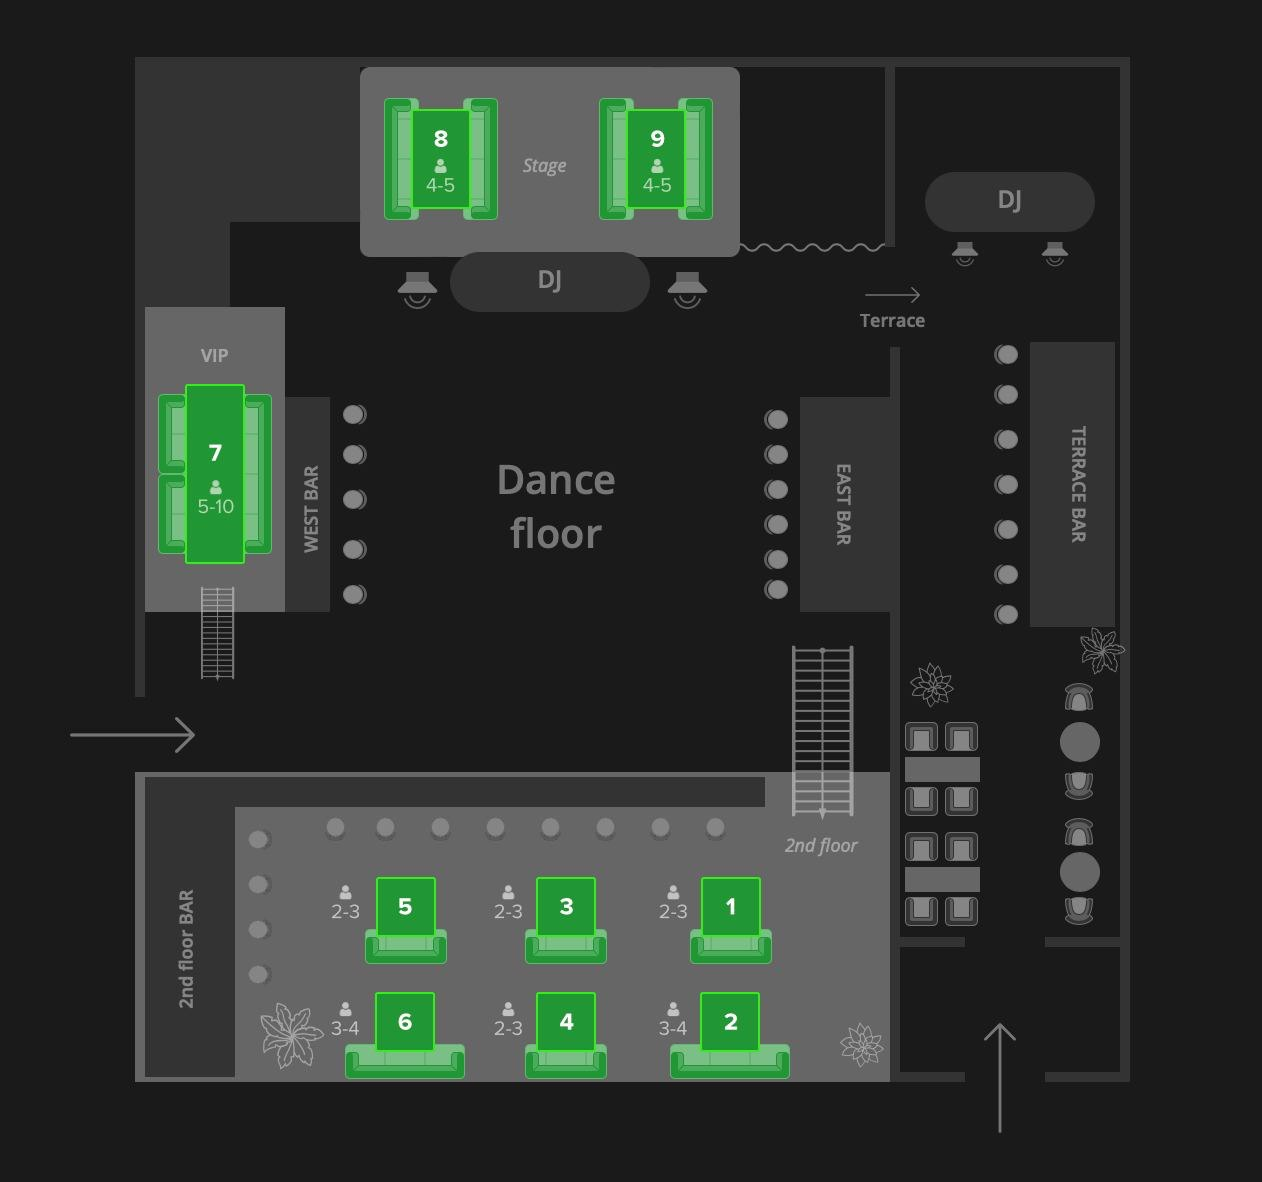
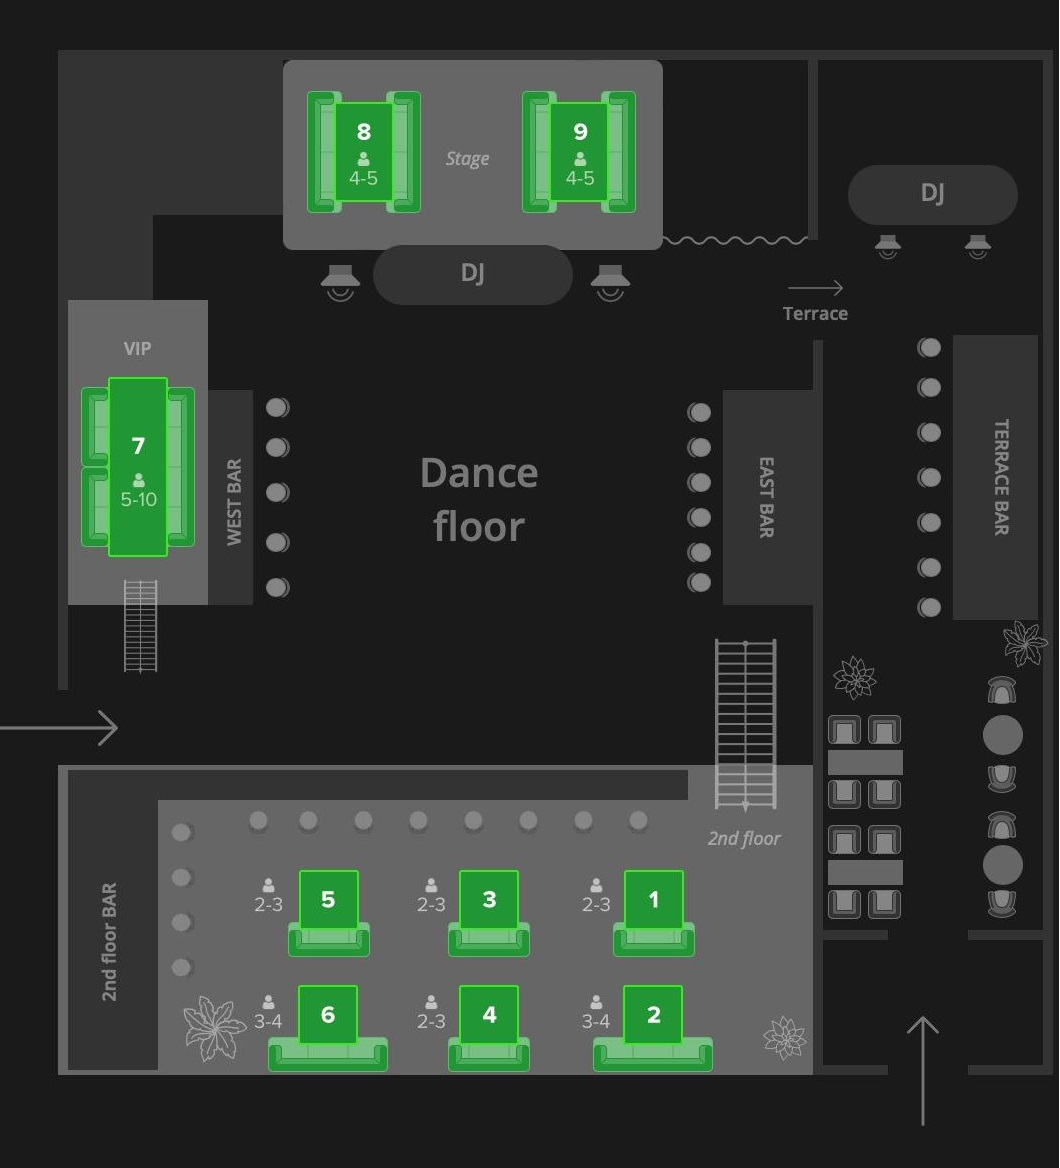
Add files via upload

Changed region(s): [[0.0, 0.0, 1.0, 1.0], [0.0311, 0.0308, 0.3113, 0.5856], [0.3736, 0.3699, 0.4981, 0.4623]]

diff --git a/styles.css b/styles.css
@@ -2,5 +2,5 @@ body {
     background-color: rgb(43, 43, 43);
     background-image: url('photos/background_schema.jpg');
     background-repeat: no-repeat;
-    background-size: cover;
+    background-size: auto;
 }
